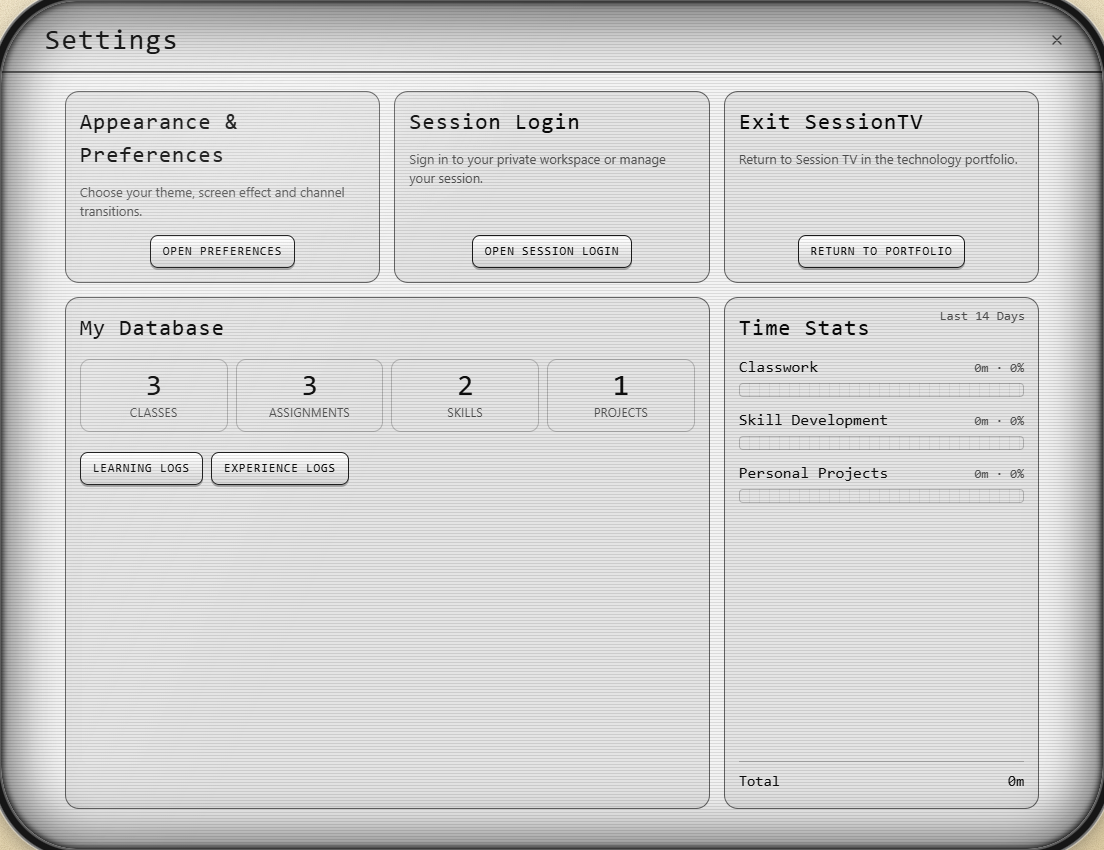
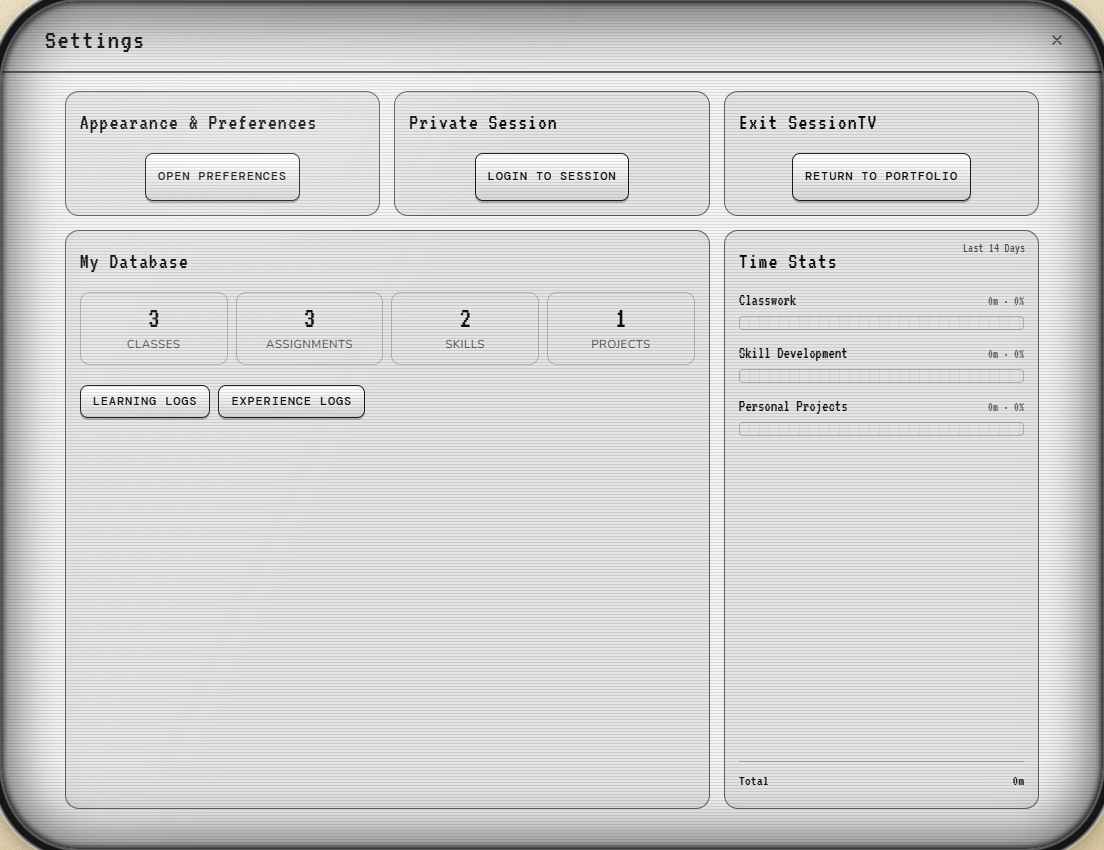
Add TV startup screen and simplify private session settings

diff --git a/session-tv/public/js/local.js b/session-tv/public/js/local.js
@@ -6,20 +6,19 @@
  const baseSettings=renderSettings;
  renderSettings=function(){baseSettings();if(TV.dbView)return;$('local-open').onclick=openLocalSetup;$('preferences-open').onclick=openPreferences};
  const dialog=document.createElement('dialog');dialog.id='local-setup';dialog.className='confirm-dlg';dialog.setAttribute('aria-labelledby','local-heading');
- dialog.innerHTML=`<div class="local-panel"><div class="row spread"><h2 id="local-heading">Session Login</h2><button class="btn ghost" id="local-close" autofocus>Close</button></div>
+ dialog.innerHTML=`<div class="local-panel"><div class="row spread"><h2 id="local-heading">Private Session</h2><button class="btn ghost" id="local-close" autofocus>Close</button></div>
  <p id="workspace-status" class="small"></p>
- <section id="workspace-auth"><p class="small muted">Sign in to your private workspace.</p><form id="workspace-login">
+ <section id="workspace-auth"><form id="workspace-login">
  <label for="workspace-username" id="workspace-identifier-label">Username</label><input id="workspace-username" name="username" type="text" required autocomplete="username" autocapitalize="none" spellcheck="false" placeholder="Your username">
  <label for="workspace-password">Password</label><div class="password-field"><input id="workspace-password" name="password" type="password" required autocomplete="current-password" placeholder="Your password"><button class="btn ghost" id="workspace-show-password" type="button" aria-controls="workspace-password" aria-pressed="false">Show</button></div>
  <div class="local-actions"><button class="btn primary" id="workspace-signin" type="submit">Sign In</button><button class="btn ghost" id="workspace-email-mode" type="button">Use email instead</button></div>
- <p class="small muted" id="workspace-login-help">Use your existing account. New here? Sign in with email after account setup, then choose a username.</p></form></section>
- <section id="workspace-profile" hidden><h3>Your username</h3><form id="workspace-username-form"><label for="workspace-chosen-username">Username</label><input id="workspace-chosen-username" autocomplete="username" minlength="3" maxlength="32" required><p class="small muted">3-32 letters, numbers, dots, underscores or hyphens. Your saved records stay with your existing account.</p><button class="btn" type="submit">Save username</button></form></section>
+</form></section>
+ <section id="workspace-profile" hidden><h3>Username preferences</h3><form id="workspace-username-form"><label for="workspace-chosen-username">Username</label><input id="workspace-chosen-username" autocomplete="username" minlength="3" maxlength="32" required><button class="btn" type="submit">Save username</button></form></section>
  <button class="btn" id="workspace-signout" hidden>Sign out</button>
- <details id="ai-connections"><summary>AI Connections</summary><h3>ChatGPT</h3><p class="small muted" id="local-ai-status">Not authorized. Subscription-backed general chat requires eligibility and approval for this hosted application. No paid API fallback is enabled. Account sign-in does not grant model access.</p>
- <h3>Codex & Local AI Companion</h3><p class="small muted" id="companion-status">Disconnected. Run the loopback companion on your computer, sign in to Codex, and select an authorized workspace. Browser local-network permission may be required.</p>
- <div id="companion-controls" hidden><label>Pairing code <input id="companion-code" autocomplete="off" type="password"></label><button class="btn" id="companion-pair">Pair companion</button><button class="btn" id="companion-check">Check status</button><label>Authorized workspace <select id="companion-workspace"></select></label><label>Coding request <textarea id="companion-prompt" rows="3" placeholder="Describe the project change"></textarea></label><button class="btn" id="companion-start">Start Codex session</button><pre id="companion-log" aria-live="polite"></pre></div>
- <p class="small muted">Demo visitors cannot pair or run agents. If offline, homework, editors, projects, and saved data remain available. See the project setup documentation for installation and troubleshooting.</p></details>
- <div class="local-actions"><button class="btn" id="local-add">Add item</button><button class="btn" id="local-playlists">Playlists</button><button class="btn" id="local-log">Learning log</button><button class="btn" id="local-end">End session &amp; teach back</button></div>
+ <details id="ai-connections"><summary>AI Connections</summary><h3>ChatGPT</h3><p class="small muted" id="local-ai-status">Not connected</p>
+ <h3>Codex & Local AI Companion</h3><p class="small muted" id="companion-status">Computer disconnected</p>
+ <div id="companion-controls" hidden><label>Pairing code <input id="companion-code" autocomplete="off" type="password"></label><button class="btn" id="companion-pair">Pair companion</button><button class="btn" id="companion-check">Check status</button><div hidden><label>Authorized workspace <select id="companion-workspace"></select></label><label>Coding request <textarea id="companion-prompt" rows="3" placeholder="Describe the project change"></textarea></label><button class="btn" id="companion-start">Start Codex session</button><pre id="companion-log" aria-live="polite"></pre></div></div>
+ </details><section id="session-music"><h3>Apple Music</h3><button class="btn" disabled>Setup coming later</button></section>
  <p class="small" id="local-message" role="status"></p></div>`;
  document.body.appendChild(dialog);
  const preferences=document.createElement('dialog');preferences.id='appearance-preferences';preferences.className='confirm-dlg';preferences.setAttribute('aria-labelledby','preferences-heading');
@@ -32,7 +31,7 @@
  $('preferences-close').onclick=()=>preferences.close();
  preferences.addEventListener('click',event=>{const button=event.target.closest('[data-pref]');if(!button)return;const name=button.dataset.pref,value=button.dataset.value;if(name==='scheme'){TV.scheme=value;store('sb.scheme',value);applyScheme()}else if(name==='screenEffect'){TV.screenEffect=value==='on';store('sb.screenEffect',TV.screenEffect)}else if(name==='cut'){TV.cutLen=Number(value);store('sb.cutLen',TV.cutLen)}syncPreferences()});
  syncPreferences();
- function update(){const mode=SessionWorkspace.mode,privateMode=mode==='private';$('workspace-status').textContent=privateMode?'Private account active. Records are saved to Supabase.':mode==='demo'?'Browse courses, assignments, skills and projects. Editing and AI are disabled.':'Sign in to use Supabase, then add your records in My Database.';$('workspace-auth').hidden=privateMode;$('workspace-profile').hidden=!privateMode;$('workspace-signout').hidden=!privateMode;$('companion-controls').hidden=!privateMode;}
+ function update(){const mode=SessionWorkspace.mode,privateMode=mode==='private';$('workspace-status').textContent=privateMode?'Private account active. Records are saved to Supabase.':mode==='demo'?'Browse courses, assignments, skills and projects. Editing and AI are disabled.':'Sign in to use Supabase, then add your records in My Database.';$('workspace-auth').hidden=privateMode;$('workspace-profile').hidden=!privateMode;$('workspace-signout').hidden=!privateMode;$('companion-controls').hidden=!privateMode;$('workspace-status').hidden=true;$('ai-connections').hidden=!privateMode;$('session-music').hidden=!privateMode;if($('local-open'))$('local-open').textContent=privateMode?'Session preferences':'Login to Session';}
  async function openLocalSetup(){update();$('local-message').textContent='';dialog.showModal();if(SessionCloud.user){try{$('workspace-chosen-username').value=await SessionCloud.getUsername()||''}catch{$('local-message').textContent='Username setup is not available yet. Apply the username account migration first.'}}}
  function fail(error){$('local-message').textContent=error.message}
  let emailMode=false;
@@ -41,8 +40,7 @@
  $('workspace-login').onsubmit=async e=>{e.preventDefault();const button=$('workspace-signin');button.disabled=true;button.textContent='Signing in...';$('local-message').textContent='';try{await SessionCloud.signInWithPassword($('workspace-username').value,$('workspace-password').value)}catch(error){fail(error)}finally{$('workspace-password').value='';button.disabled=false;button.textContent='Sign In'}};
  $('workspace-username-form').onsubmit=async e=>{e.preventDefault();const button=e.currentTarget.querySelector('button');button.disabled=true;try{const username=await SessionCloud.setUsername($('workspace-chosen-username').value);$('workspace-chosen-username').value=username;$('local-message').textContent='Username saved. Your account and records are unchanged.'}catch(error){fail(error)}finally{button.disabled=false}};
  $('workspace-signout').onclick=async()=>{try{await SessionCloud.signOut()}catch(error){fail(error)}};
- $('local-close').onclick=()=>dialog.close();$('local-add').onclick=()=>{dialog.close();closeSheets();openDrawer('add-drawer')};$('local-playlists').onclick=()=>{dialog.close();closeSheets();openDrawer('music-drawer')};$('local-log').onclick=()=>{dialog.close();closeSheets();go('log')};$('local-end').onclick=()=>{dialog.close();startTeachBack()};
- async function status(){const value=await SessionCompanion.status();$('companion-status').textContent=(value.connected?'Local companion connected. ':'Local companion disconnected. ')+(value.available?'Codex is available. ':'Codex is unavailable. ')+(value.signedIn?'Signed in with ChatGPT. ':'Codex is not signed in. ')+(value.busy?'A coding session is running. ':'')+(value.error||'Select an authorized workspace below. Additional command or file permissions are declined; review those actions in your terminal.');const list=value.workspaces||[];$('companion-workspace').replaceChildren(...list.map(w=>{const o=document.createElement('option');o.value=typeof w==='string'?w:w.id||w.path;o.textContent=typeof w==='string'?w:w.name||w.path||w.id;return o}));return value}
+ $('local-close').onclick=()=>dialog.close(); async function status(){const value=await SessionCompanion.status();$('companion-status').textContent=value.error||(!value.connected?'Computer disconnected':value.busy?'Codex is working':value.signedIn?'Computer connected · Codex ready':'Computer connected · Sign in to Codex');const list=value.workspaces||[];$('companion-workspace').replaceChildren(...list.map(w=>{const o=document.createElement('option');o.value=typeof w==='string'?w:w.id||w.path;o.textContent=typeof w==='string'?w:w.name||w.path||w.id;return o}));return value}
  $('companion-pair').onclick=async()=>{try{await SessionCompanion.pair($('companion-code').value);$('companion-code').value='';await status()}catch(error){fail(error)}};
  $('companion-check').onclick=async()=>{try{await status()}catch(error){$('companion-status').textContent='Disconnected: '+error.message}};
  $('companion-start').onclick=async()=>{const button=$('companion-start');button.disabled=true;$('companion-log').textContent='';try{await SessionCompanion.start({workspace:$('companion-workspace').value,prompt:$('companion-prompt').value,onEvent:event=>{$('companion-log').textContent+=JSON.stringify(event)+'\n'}})}catch(error){fail(error)}finally{button.disabled=false}};

diff --git a/session-tv/public/local.css b/session-tv/public/local.css
@@ -27,3 +27,29 @@ body[data-screen-effect="off"] .crt{filter:none}
 #project-chats{width:min(760px,calc(100vw - 32px));max-width:calc(100vw - 32px)!important} #project-chats input,#project-chats select,#project-chats textarea{width:100%;box-sizing:border-box} #project-chats form{margin:16px 0} #pc-history{max-height:40vh;overflow:auto;white-space:pre-wrap;overflow-wrap:anywhere}
 
 .create-record{width:min(560px,calc(100vw - 32px));max-width:calc(100vw - 32px)!important}.create-record label{display:block;margin:12px 0}.create-record input,.create-record select{display:block;width:100%;box-sizing:border-box}
+/* Screen content stays behind the rounded glass on every view. */
+#crt{overflow:hidden;isolation:isolate}
+#crt>.crt-content,#crt>.tv-sheet{border-radius:inherit;overflow:hidden}
+#tv-home{position:absolute;inset:0;z-index:24;display:grid;place-items:center;border-radius:inherit;background:radial-gradient(ellipse,#27322a 0%,#101a14 55%,#050906 100%);color:#e9e1bf;text-align:center}
+#tv-home[hidden]{display:none}
+.tv-home-inner{transform:translateY(-6%);animation:tv-power-on .65s ease-out both}
+#tv-home .gd-logo{font-size:clamp(48px,8vw,112px);line-height:1.15;margin:0 0 28px;text-shadow:0 0 16px #c3d4a95c}
+#tv-home-start{display:inline-flex;align-items:center;gap:14px;padding:10px 30px;border:3px double currentColor;border-radius:5px;background:#18231b;color:inherit;font:28px 'VT323',monospace;text-transform:uppercase;cursor:pointer;box-shadow:0 0 15px #b7c2a52b}
+#tv-home-start:focus-visible{outline:3px solid #fff;outline-offset:6px}
+body.tv-home-active #crt>.crt-content,body.tv-home-active #crt>.tv-sheet{visibility:hidden;pointer-events:none}
+.signal-lost{position:absolute;inset:0;display:flex;flex-direction:column;align-items:center;justify-content:center;background:#101411;color:#dedbc5;text-align:center;font-family:'VT323',monospace;overflow:hidden;border-radius:inherit}
+.signal-lost h2{font:clamp(30px,5vw,64px) 'VT323',monospace;text-transform:uppercase;letter-spacing:.12em;margin:16px 0 0}
+.signal-bars{width:65%;height:22%;background:repeating-linear-gradient(90deg,#dad8c8 0 14%,#aaa990 14% 28%,#7d8777 28% 42%,#b8b0a0 42% 56%,#687365 56% 70%,#444b40 70% 84%,#242c24 84% 100%)}
+#tv-settings .set-grid>.set-card:nth-child(-n+3) .btn{min-height:48px;padding:12px 20px;font-size:15px}
+#appearance-preferences .local-panel{padding:10px 20px;max-height:none;overflow:visible}
+#appearance-preferences{overflow:hidden}
+#appearance-preferences h2{margin:4px 0;font-size:clamp(18px,3vw,25px)}
+#appearance-preferences .preference-row{padding:10px 0}
+#appearance-preferences .preference-row h3{margin:0 0 7px;font-size:16px}
+@keyframes tv-power-on{from{opacity:0;transform:scaleY(.03) scaleX(.6)}to{opacity:1;transform:scaleY(1) scaleX(1) translateY(-6%)}}
+@media(prefers-reduced-motion:reduce){.tv-home-inner{animation:none}}
+@media(max-height:500px){#appearance-preferences .local-panel{padding:5px 14px}#appearance-preferences .preference-row{padding:5px 0}#appearance-preferences h2{font-size:18px}}
+
+body.tv-home-active #view-log{visibility:hidden;pointer-events:none}#tv-home .gd-logo b{font-size:.48em;vertical-align:baseline}
+
+#local-setup .local-panel{padding:16px 22px}#local-setup #workspace-auth{margin-top:16px}#local-setup #workspace-profile,#local-setup #session-music{padding:10px 0;border-bottom:1px solid var(--line)}#local-setup details{margin:12px 0}#local-setup h3{margin:8px 0}#workspace-status[hidden],#ai-connections[hidden],#session-music[hidden]{display:none!important}

diff --git a/session-tv/public/js/artifact/06.js b/session-tv/public/js/artifact/06.js
@@ -7,9 +7,9 @@ function renderSettings(){
   const exp=pj.filter(t=>t.status==='done').length;
   const stat=(n,l,v)=>`<button type="button" class="db-stat" data-db="${v}" title="Open ${l}"><b>${n}</b><span>${l}</span></button>`;
   $('set-body').innerHTML=`<div class="set-grid">
-    <div class="set-card"><h3>Appearance &amp; Preferences</h3><p>Choose your theme, screen effect and channel transitions.</p><div class="row"><button class="btn" id="preferences-open">Open preferences</button></div></div>
-    <div class="set-card"><h3>Session Login</h3><p>Sign in to your private workspace or manage your session.</p><div class="row"><button class="btn" id="local-open">Open session login</button></div></div>
-    <div class="set-card"><h3>Exit SessionTV</h3><p>Return to Session TV in the technology portfolio.</p><div class="row"><a class="btn" id="session-exit" href="https://tannermayfield.dev/#projects">Return to portfolio</a></div></div>
+    <div class="set-card"><h3>Appearance &amp; Preferences</h3><div class="row"><button class="btn" id="preferences-open">Open preferences</button></div></div>
+    <div class="set-card"><h3>Private Session</h3><div class="row"><button class="btn" id="local-open">${SessionWorkspace.mode==='private'?'Session preferences':'Login to Session'}</button></div></div>
+    <div class="set-card"><h3>Exit SessionTV</h3><div class="row"><a class="btn" id="session-exit" href="https://tannermayfield.dev/#projects">Return to portfolio</a></div></div>
     <div class="set-card db-card"><h3>My Database</h3>
       <div class="db-stats">${stat(courses.length,'Classes','classes')}${stat(cls.length,'Assignments','assignments')}${stat(sk.length,'Skills','skills')}${stat(projects.length,'Projects','projects')}</div>
       <div class="db-btns"><button class="btn" data-db="learning">Learning Logs</button><button class="btn" data-db="experience">Experience Logs</button></div></div>

diff --git a/session-tv/public/js/artifact/04.js b/session-tv/public/js/artifact/04.js
@@ -1949,7 +1949,7 @@ function renderWork(){
   const t=T(current.active),f=$('focus');
   wsMount(t&&typeOf(t)==='skill'?t:null);if(typeof ppMount==='function')ppMount(t);
   if(typeof ppNoSignal==='function')ppNoSignal(!t);
-  if(!t){f.innerHTML=`<div class="chat-title"><h2>No program on this channel</h2></div>`;$('coach-log').innerHTML=`<div class="msg ai">Nothing is scheduled on <b>${esc(MAIN_LBL[current.mood])} · ${esc(curSub(current.mood))}</b>. Turn the sub-channel knob, or press Menu to see every channel.</div>`;$('coach-quick').innerHTML='';$('coach-form').hidden=true;renderClock();return}
+  if(!t){f.innerHTML=`<div class="signal-lost" role="status"><div class="signal-bars" aria-hidden="true"></div><h2>Signal lost</h2><p>Choose a channel from Menu</p></div>`;$('coach-log').innerHTML='';$('coach-quick').innerHTML='';$('coach-form').hidden=true;renderClock();return}
   const type=typeOf(t),doneNow=isDoneNow(t);
   const doneBtn=doneNow?(isSkill(t)?`<span class="small" style="color:var(--ok)">Practiced ✓</span>`:`<button class="btn" id="undo-done">Mark not done</button>`)
     :isSkill(t)?(current.wrapUp?.[t.id]?`<button class="btn primary" id="done-btn" title="Save this conversation and move to the next skill">Next Skill</button>`:`<button class="btn primary" id="wrapup-btn" title="Stop practicing and teach back what you know">Wrap Up</button>`)

diff --git a/session-tv/public/index.html b/session-tv/public/index.html
@@ -11,7 +11,7 @@
 <link rel="stylesheet" href="local.css">
 <link rel="icon" href="favicon.svg" type="image/svg+xml">
 </head>
-<body class="tv" data-view="work" data-mood="tv">
+<body class="tv tv-home-active" data-view="work" data-mood="tv">
 <svg width="0" height="0" style="position:absolute" aria-hidden="true">
   <symbol id="ic-skill" viewBox="0 0 24 24"><path fill="currentColor" d="M7.2 19h10.3a4.2 4.2 0 0 0 .5-8.37A6.2 6.2 0 0 0 6.1 9.4 4.8 4.8 0 0 0 7.2 19z"/></symbol>
   <symbol id="ic-class" viewBox="0 0 24 24"><path fill="currentColor" d="M12 2.5l1.9 5.6 5.6 1.9-5.6 1.9L12 17.5l-1.9-5.6L4.5 10l5.6-1.9z"/><circle cx="19" cy="18.5" r="1.6" fill="currentColor"/><circle cx="5" cy="19.5" r="1" fill="currentColor"/></symbol>
@@ -233,6 +233,9 @@
   <div class="tv-body">
    <div class="tv-bezel">
     <div class="crt" id="crt">
+     <section id="tv-home" aria-labelledby="tv-home-logo">
+      <div class="tv-home-inner"><h1 class="gd-logo" id="tv-home-logo">Session<b>TV</b></h1><button type="button" id="tv-home-start"><span aria-hidden="true">▶</span> Start</button></div>
+     </section>
      <canvas id="tv-amb" aria-hidden="true"></canvas>
      <div class="crt-content" id="crt-content">
       <div class="tv-osd" id="tv-osd" aria-live="polite"></div>

diff --git a/session-tv/public/js/boot.js b/session-tv/public/js/boot.js
@@ -4,7 +4,7 @@
  try {
   await window.SessionCloud?.ready;
   if(window.SessionCloud?.user)await SessionCloud.open();
-  const scripts=Array.from({length:17},(_,i)=>'artifact/'+String(i+1).padStart(2,'0')+'.js').concat('local.js','project-chats.js','add-forms.js','preview.js');
+  const scripts=Array.from({length:17},(_,i)=>'artifact/'+String(i+1).padStart(2,'0')+'.js').concat('local.js','project-chats.js','add-forms.js','home.js','preview.js');
   for(const name of scripts)await new Promise((resolve,reject)=>{const s=document.createElement('script');s.src='js/'+name;s.onload=resolve;s.onerror=()=>reject(Error('Could not load '+name));document.body.appendChild(s)});
   loading.remove();
  } catch(error) {

diff --git a/session-tv/public/js/home.js b/session-tv/public/js/home.js
@@ -1,0 +1,13 @@
+/* The power-on screen appears on every page load, including an auth reload. */
+(() => {
+ const home = $('tv-home');
+ function showHome() {
+  stopCut(); document.body.classList.add('tv-home-active'); home.hidden = false;
+  $('tv-home-start').focus({preventScroll:true});
+ }
+ $('tv-home-start').onclick = () => {
+  document.body.classList.remove('tv-home-active'); home.hidden = true;
+  openGuide(); $('btn-menu').focus({preventScroll:true});
+ };
+ showHome();
+})();
